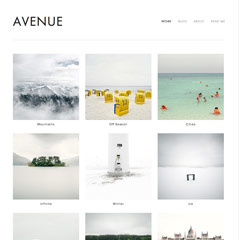
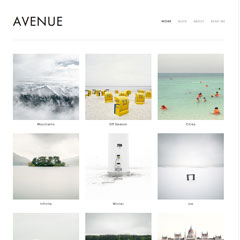
change images sizes. add styles

diff --git a/css/styles1.css b/css/styles1.css
@@ -1,0 +1,331 @@
+.clearfix::after {
+  content: "";
+
+  display: table;
+  clear: both;
+}
+
+.container {
+  width: 880px;
+  margin: 0 auto;
+  padding: 0 10px;
+}
+
+.list-horisontal {
+  margin: 0;
+  padding: 0;
+
+  font-size: 0;
+
+  list-style: none;
+}
+
+.list-horisontal > li {
+  display: inline-block;
+
+  font-size: 14px;
+
+  vertical-align: top;
+}
+
+.list-horisontal > li:last-child {
+  margin-right: 0;
+}
+
+.img-link {
+  display: inline-block;
+}
+
+.logo {
+  width: 185px;
+  height: 75px;
+}
+
+/***** INDEX PAGE *****/
+
+/*** Page header ***/
+
+.main-header {
+  background-color: #eeeeee;
+}
+
+.page-menu {
+  float: left;
+  width: 720px;
+}
+
+.user-block {
+  float: right;
+  width: 160px;
+}
+
+.menu-link {
+  font-size: 14px;
+}
+
+/* Main navigation */
+
+.logo {
+  float: left;
+}
+
+.logo img {
+  width: 185px;
+  height: 75px;
+}
+
+.main-nav {
+  float: right;
+  min-width: 400px;
+}
+
+.main-nav > li {
+  margin-right: 45px;
+}
+
+
+/* User block */
+
+
+/* Slider */
+.sliders {
+  clear: both;
+}
+
+.slider {
+  display: none;
+  min-height: 312px;
+  margin-top: 50px;
+}
+
+.slider-content {
+  float: left;
+  width: 470px;
+}
+
+.sliders input[type="radio"] {
+  display: none;
+}
+
+#slider-radio-1[checked] ~ #slider-1 { display: block; }
+#slider-radio-2[checked] ~ #slider-2 { display: block; }
+#slider-radio-3[checked] ~ #slider-3 { display: block; }
+
+/*** Main content ***/
+
+.index-content-block {
+  border-bottom: 2px #eeeeee solid;
+}
+
+/* Features */
+
+.features {
+  padding: 80px 0;
+}
+
+.features-item {
+  float: left;
+  width: 240px;
+  margin-right: 80px;
+}
+
+.features-item:last-child {
+  margin-right: 0;
+}
+
+/* Description */
+
+.description {
+  position: relative;
+
+  padding: 70px 0;
+}
+
+.logo-small {
+  position: absolute;
+  top: 65px; /* not accurate */
+  right: 0;
+
+  width: 139px;
+  height: 56px;
+}
+
+.description-intro {
+  width: 620px;
+}
+
+.description-left {
+  float: left;
+  width: 620px;
+}
+
+.description-right {
+  float: right;
+  width: 240px;
+}
+
+/* Portfolio */
+
+.portfolio {
+  margin-bottom: 85px;
+  padding-top: 50px;
+  padding-bottom: 32px;
+
+  font-size: 0;
+}
+
+.portfolio-item {
+  display: inline-block;
+  margin-right: 80px;
+
+  vertical-align: middle;
+}
+
+.portfolio-item:last-child {
+  margin-right: 0;
+}
+
+.portfolio-item img {
+  width: 240px;
+  height: 90px;
+}
+
+/* Map */
+
+.map {
+  position: relative;
+
+  width: 1199px;
+  height: 416px;
+  margin-left: auto;
+  margin-right: auto;
+  margin-bottom: 75px;
+}
+
+.map-image {
+  width: 1199px;
+  height: 416px;
+}
+
+.contacts {
+  position: absolute;
+  top: 70px;
+
+  width: 210px;
+  padding-top: 30px;
+  padding-left: 20px;
+  padding-right: 20px;
+  padding-bottom: 25px;
+}
+
+/*** Page footer ***/
+
+.socials {
+  float: left;
+  width: 240px;
+}
+
+.discount {
+  float: right;
+  width: 560px;
+}
+
+
+/***** CATALOG PAGE *****/
+
+/*** Page header ***/
+
+.catalog-page .main-header {
+  margin-bottom: 75px;
+  padding-bottom: 90px;
+}
+
+.catalog-page .menu-wrap {
+  margin-bottom: 65px;
+}
+
+.catalog-page h1 {
+  width: 640px;
+  margin: 0 auto;
+}
+
+/*** Main content ***/
+
+.catalog-page-aside {
+  float:left;
+  width: 240px;
+}
+
+.catalog-page-content {
+  float: right;
+  width: 560px;
+}
+
+/* Filter */
+
+/* Sort */
+
+.sort {
+  margin-bottom: 20px;
+}
+
+.sort-type-wrapper {
+  float: left;
+  width: 480px;
+}
+
+.sort-direction-wrapper {
+  float: right;
+  width: 30px;
+}
+
+.sort-types {
+  display: inline-block;
+  margin-left: 40px;
+}
+
+.sort-types > li {
+  margin-right: 45px;
+}
+
+
+/* Catalog */
+
+.catalog {
+  margin-bottom: 80px;
+
+  font-size: 0;
+}
+
+.catalog-item {
+  display: inline-block;
+  width: 240px;
+  margin-right: 80px;
+}
+
+.catalog-item:nth-child(2n) {
+  margin-right: 0;
+}
+
+.catalog-item-body {
+  /*position: relative;*/
+}
+
+.catalog-item-image {
+  width: 240px;
+  height: 240px;
+}
+
+.catalog-item-info {
+  /*position: absolute;
+  left: 0;
+  right: 0;*/
+  display: none;
+}
+
+/* Paginator */
+
+
+.paginator-list > li {
+  margin-right: 10px;
+}
